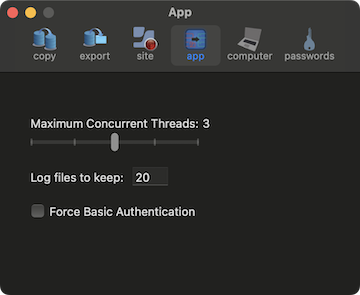
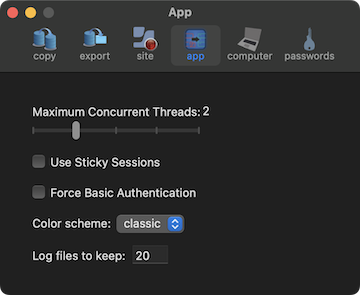
hide splitview divider

Changed region(s): [[0.0611, 0.3356, 0.5806, 0.7932], [0.0917, 0.8237, 0.4583, 0.9153]]

diff --git a/jamf-migrator/ViewController.swift b/jamf-migrator/ViewController.swift
@@ -613,6 +613,7 @@ class ViewController: NSViewController, URLSessionDelegate, NSTabViewDelegate, N
             targetDataArray.removeAll()
         }
         // disable buttons on inactive tabs - end
+        srcSrvTableView.isEnabled = true
 	}
 
     func markAllNone(rawStateValue: Int) {
@@ -5654,7 +5655,7 @@ class ViewController: NSViewController, URLSessionDelegate, NSTabViewDelegate, N
     func clearSelectiveList() {
         DispatchQueue.main.async { [self] in
             if !selectiveListCleared && srcSrvTableView.isEnabled {
-
+                
                 generalSectionToMigrate_button.selectItem(at: 0)
                 sectionToMigrate_button.selectItem(at: 0)
                 iOSsectionToMigrate_button.selectItem(at: 0)
@@ -5765,19 +5766,8 @@ class ViewController: NSViewController, URLSessionDelegate, NSTabViewDelegate, N
                             if ((theCreateQ.operationCount + theOpQ.operationCount + theIconsQ.operationCount + getEndpointsQ.operationCount) == 0 && nodesMigrated >= objectsToMigrate.count && objectsToMigrate.count != 0 && iconDictArray.count == 0 && !dependency.isRunning) || pref.stopMigration {
                                 
                                 if !local_button_status {
-//                                    History.endTime = Date()
 //
-//
-//                                    let components = Calendar.current.dateComponents([.second, .nanosecond], from: History.startTime, to: History.endTime)
-//
-////                                    let timeDifference = Double(components.second!) + Double(components.nanosecond!)/1000000000
-////                                    WriteToLog().message(stringOfText: "[Migration Complete] runtime: \(timeDifference) seconds\n")
-//
-//                                    let timeDifference = Int(components.second!)
-//                                    let (h,r) = timeDifference.quotientAndRemainder(dividingBy: 3600)
-//                                    let (m,s) = r.quotientAndRemainder(dividingBy: 60)
-//
-                                    let (h,m,s) = runTime()
+                                    let (h,m,s) = timeDiff(forWhat: "runTime")
                                     WriteToLog().message(stringOfText: "[Migration Complete] runtime: \(dd(value: h)):\(dd(value: m)):\(dd(value: s)) (h:m:s)\n")
                                     
                                     if setting.fullGUI {
@@ -5819,7 +5809,7 @@ class ViewController: NSViewController, URLSessionDelegate, NSTabViewDelegate, N
                                 }
                                 WriteToLog().message(stringOfText: "[Backup Complete] Backup created: \(export.saveLocation)\(JamfProServer.source.urlToFqdn)_backup_\(backupDate.string(from: History.startTime)).zip\n")
                                 
-                                let (h,m,s) = runTime()
+                                let (h,m,s) = timeDiff(forWhat: "runTime")
                                 WriteToLog().message(stringOfText: "[Backup Complete] runtime: \(dd(value: h)):\(dd(value: m)):\(dd(value: s)) (h:m:s)\n")
                             } catch let error as NSError {
                                 if LogLevel.debug { WriteToLog().message(stringOfText: "Unable to delete backup folder! Something went wrong: \(error)\n") }
@@ -5854,16 +5844,27 @@ class ViewController: NSViewController, URLSessionDelegate, NSTabViewDelegate, N
         }
     }
     
-    func runTime() -> (Int,Int,Int) {
-        History.endTime = Date()
-        let components = Calendar.current.dateComponents([.second, .nanosecond], from: History.startTime, to: History.endTime)
-//          let timeDifference = Double(components.second!) + Double(components.nanosecond!)/1000000000
-//          WriteToLog().message(stringOfText: "[Migration Complete] runtime: \(timeDifference) seconds\n")
-        let timeDifference = Int(components.second!)
-        let (h,r) = timeDifference.quotientAndRemainder(dividingBy: 3600)
-        let (m,s) = r.quotientAndRemainder(dividingBy: 60)
-        return(h,m,s)
-    }
+//    func timeDiff(forWhat: String) -> (Int,Int,Int) {
+//        var components:DateComponents?
+//        switch forWhat {
+//        case "runTime":
+//            components = Calendar.current.dateComponents([.second, .nanosecond], from: History.startTime, to: Date())
+//        case "sourceTokenAge","destTokenAge":
+//            if forWhat == "sourceTokenAge" {
+//                components = Calendar.current.dateComponents([.second, .nanosecond], from: (JamfProServer.tokenCreated["source"] ?? Date())!, to: Date())
+//            } else {
+//                components = Calendar.current.dateComponents([.second, .nanosecond], from: (JamfProServer.tokenCreated["destination"] ?? Date())!, to: Date())
+//            }
+//        default:
+//            break
+//        }
+////          let timeDifference = Double(components.second!) + Double(components.nanosecond!)/1000000000
+////          WriteToLog().message(stringOfText: "[Migration Complete] runtime: \(timeDifference) seconds\n")
+//        let timeDifference = Int(components?.second! ?? 0)
+//        let (h,r) = timeDifference.quotientAndRemainder(dividingBy: 3600)
+//        let (m,s) = r.quotientAndRemainder(dividingBy: 60)
+//        return(h,m,s)
+//    }
     
     // scale the delay when listing items with selective migrations based on the number of items
     func listDelay(itemCount: Int) -> UInt32 {
@@ -7857,10 +7858,12 @@ class ViewController: NSViewController, URLSessionDelegate, NSTabViewDelegate, N
 
         resetAllCheckboxes()
         clearProcessingFields()
-        self.generalSectionToMigrate_button.selectItem(at: 0)
-        self.sectionToMigrate_button.selectItem(at: 0)
-        self.iOSsectionToMigrate_button.selectItem(at: 0)
-        self.selectiveFilter_TextField.stringValue = ""
+        if srcSrvTableView.isEnabled {
+            self.generalSectionToMigrate_button.selectItem(at: 0)
+            self.sectionToMigrate_button.selectItem(at: 0)
+            self.iOSsectionToMigrate_button.selectItem(at: 0)
+            self.selectiveFilter_TextField.stringValue = ""
+        }
         
         DispatchQueue.main.async {
             self.clearSelectiveList()

diff --git a/jamf-migrator/Globals.swift b/jamf-migrator/Globals.swift
@@ -43,7 +43,6 @@ struct History {
     static var logPath: String? = (NSHomeDirectory() + "/Library/Logs/jamf-migrator/")
     static var logFile          = ""
     static var startTime        = Date()
-    static var endTime          = Date()
 }
 
 struct iconfiles {
@@ -72,6 +71,7 @@ struct JamfProServer {
     static var authType     = ["source":"Bearer", "destination":"Bearer"]
     static var base64Creds  = ["source":"", "destination":""]               // used if we want to auth with a different account
     static var validToken   = ["source":false, "destination":false]
+    static var tokenCreated = [String:Date?]()
     static var version      = ["source":"", "destination":""]
     static var pkgsNotFound = 0
     static var sessionCookie = [HTTPCookie]()
@@ -115,9 +115,31 @@ struct summaryHeader {
 }
 
 struct token {
-    static var refreshInterval:UInt32 = 15*60  // 15 minutes (15*60)
+    static var refreshInterval:UInt32 = 20*60  // 20 minutes
 }
 
 struct wipeData {
     static var on = false
+}
+
+public func timeDiff(forWhat: String) -> (Int,Int,Int) {
+    var components:DateComponents?
+    switch forWhat {
+    case "runTime":
+        components = Calendar.current.dateComponents([.second, .nanosecond], from: History.startTime, to: Date())
+    case "sourceTokenAge","destTokenAge":
+        if forWhat == "sourceTokenAge" {
+            components = Calendar.current.dateComponents([.second, .nanosecond], from: (JamfProServer.tokenCreated["source"] ?? Date())!, to: Date())
+        } else {
+            components = Calendar.current.dateComponents([.second, .nanosecond], from: (JamfProServer.tokenCreated["destination"] ?? Date())!, to: Date())
+        }
+    default:
+        break
+    }
+//          let timeDifference = Double(components.second!) + Double(components.nanosecond!)/1000000000
+//          WriteToLog().message(stringOfText: "[Migration Complete] runtime: \(timeDifference) seconds\n")
+    let timeDifference = Int(components?.second! ?? 0)
+    let (h,r) = timeDifference.quotientAndRemainder(dividingBy: 3600)
+    let (m,s) = r.quotientAndRemainder(dividingBy: 60)
+    return(h,m,s)
 }

diff --git a/jamf-migrator/JamfPro.swift b/jamf-migrator/JamfPro.swift
@@ -51,7 +51,10 @@ class JamfPro: NSObject, URLSessionDelegate {
         var request        = URLRequest(url: tokenUrl!)
         request.httpMethod = "POST"
         
-        if !(JamfProServer.validToken[whichServer] ?? false) || (JamfProServer.base64Creds[whichServer] != base64creds) {
+        let forWhat = (whichServer == "source") ? "sourceTokenAge":"destTokenAge"
+        let (hoursOld, minutesOld, _) = timeDiff(forWhat: forWhat)
+//        print("[JamfPro] \(whichServer) tokenAge: \(60*hoursOld+minutesOld) minutes")
+        if !(JamfProServer.validToken[whichServer] ?? false) || (JamfProServer.base64Creds[whichServer] != base64creds) || (60*hoursOld+minutesOld) > 25 {
             WriteToLog().message(stringOfText: "[JamfPro.getToken] Attempting to retrieve token from \(String(describing: tokenUrl!)) for version look-up\n")
             
             configuration.httpAdditionalHeaders = ["Authorization" : "Basic \(base64creds)", "Content-Type" : "application/json", "Accept" : "application/json", "User-Agent" : appInfo.userAgentHeader]
@@ -73,6 +76,7 @@ class JamfPro: NSObject, URLSessionDelegate {
                                 JamfProServer.authExpires["source"] = JamfProServer.authExpires[whichServer]
                                 JamfProServer.authType["source"]    = JamfProServer.authType[whichServer]
                             }
+                            JamfProServer.tokenCreated[whichServer] = Date()
                             
     //                      if LogLevel.debug { WriteToLog().message(stringOfText: "[JamfPro.getToken] Retrieved token: \(token)") }
     //                      print("[JamfPro] result of token request: \(endpointJSON)")

diff --git a/jamf-migrator/SplitViewVC.swift b/jamf-migrator/SplitViewVC.swift
@@ -1,0 +1,44 @@
+//
+//  SplitViewVC.swift
+//  jamf-migrator
+//
+//  Created by Leslie Helou on 10/15/22.
+//  Copyright © 2022 jamf. All rights reserved.
+//
+
+import Foundation
+import AppKit
+
+//class SplitViewVC: NSSplitViewController {
+////    override func splitView(_ splitView: NSSplitView, effectiveRect proposedEffectiveRect: NSRect, forDrawnRect drawnRect: NSRect, ofDividerAt dividerIndex: Int) -> NSRect {
+////        print("dividerIndex: \(dividerIndex)")
+////        print("proposedEffectiveRect: \(proposedEffectiveRect)")
+//////        let thick = CustomThickness().dividerThickness
+////
+////        print("return empty rect")
+////        return CGRect(x:proposedEffectiveRect.minX, y:proposedEffectiveRect.minY, width: 0, height: 0)
+////    }
+////
+////    override func splitView(_ splitView: NSSplitView, shouldHideDividerAt dividerIndex: Int) -> Bool {
+////        print("hide divider \(dividerIndex)")
+////        let thick = self.splitView.dividerThickness
+////        print("divider thickness \(thick)")
+////        return true
+////    }
+//    override func viewWillAppear() {
+//        print("[SplitViewVC] viewDidAppear")
+//    }
+//}
+class CustomThickness: NSSplitView {
+    // override
+    override var dividerThickness:CGFloat {
+        get {
+            return 0.0
+        }
+    }
+//    override var dividerColor: NSColor {
+//        get {
+//            return appColor.highlight["classic"]!
+//        }
+//    }
+}

diff --git a/jamf-migrator/SourceDestVC.swift b/jamf-migrator/SourceDestVC.swift
@@ -10,7 +10,7 @@ import AppKit
 import Cocoa
 import Foundation
 
-class SourceDestVC: NSViewController, URLSessionDelegate, NSTableViewDelegate, NSTableViewDataSource, NSTextFieldDelegate, NSSplitViewDelegate {
+class SourceDestVC: NSViewController, URLSessionDelegate, NSTableViewDelegate, NSTableViewDataSource, NSTextFieldDelegate {
     
     let userDefaults      = UserDefaults.standard
     let classicBackground = CGColor(red: 0x5C/255.0, green: 0x78/255.0, blue: 0x94/255.0, alpha: 1.0)
@@ -1010,8 +1010,6 @@ class SourceDestVC: NSViewController, URLSessionDelegate, NSTableViewDelegate, N
     var jamfpro: JamfPro?
     override func viewDidLoad() {
         super.viewDidLoad()
-//        let test = SplitViewVC().splitView.dividerThickness
-//        print("test: \(test)")
 //        hardSetLdapId = false
 
 //        debug = true

diff --git a/jamf-migrator/Jpapi.swift b/jamf-migrator/Jpapi.swift
@@ -108,7 +108,7 @@ class Jpapi: NSObject, URLSessionDelegate {
                         }
                         
                         if sessionCookie != nil && (sessionCookie?.domain == JamfProServer.destination.urlToFqdn) {
-                            WriteToLog().message(stringOfText: "[Jpapi.action] set cookie (\(String(describing: sessionCookie))) for \(String(describing: sessionCookie!.domain))\n")
+                            WriteToLog().message(stringOfText: "[Jpapi.action] set cookie (\(String(describing: sessionCookie!.value))) for \(String(describing: sessionCookie!.domain))\n")
                             JamfProServer.sessionCookie.append(sessionCookie!)
                         } else {
                             HTTPCookieStorage.shared.removeCookies(since: History.startTime)

diff --git a/jamf-migrator/index.html b/jamf-migrator/index.html
@@ -222,7 +222,7 @@ body
     <img src="images/exportTo.png" alt="" style="position:relative; left: 100px; width:360px">
 </div>
 
-<div>The number of concurrent API operations (from 1 to 20) and number of log files to retain can be configured.</div>
+<div>The number of concurrent API operations (from 1 to 5), sticky sessions (when available), forcing basic authentication, color scheme, and number of log files to retain can be configured.</div>
 <div>
     <img src="images/appPrefs.png" alt="" style="position:relative; left: 100px; width:360px">
 </div>
